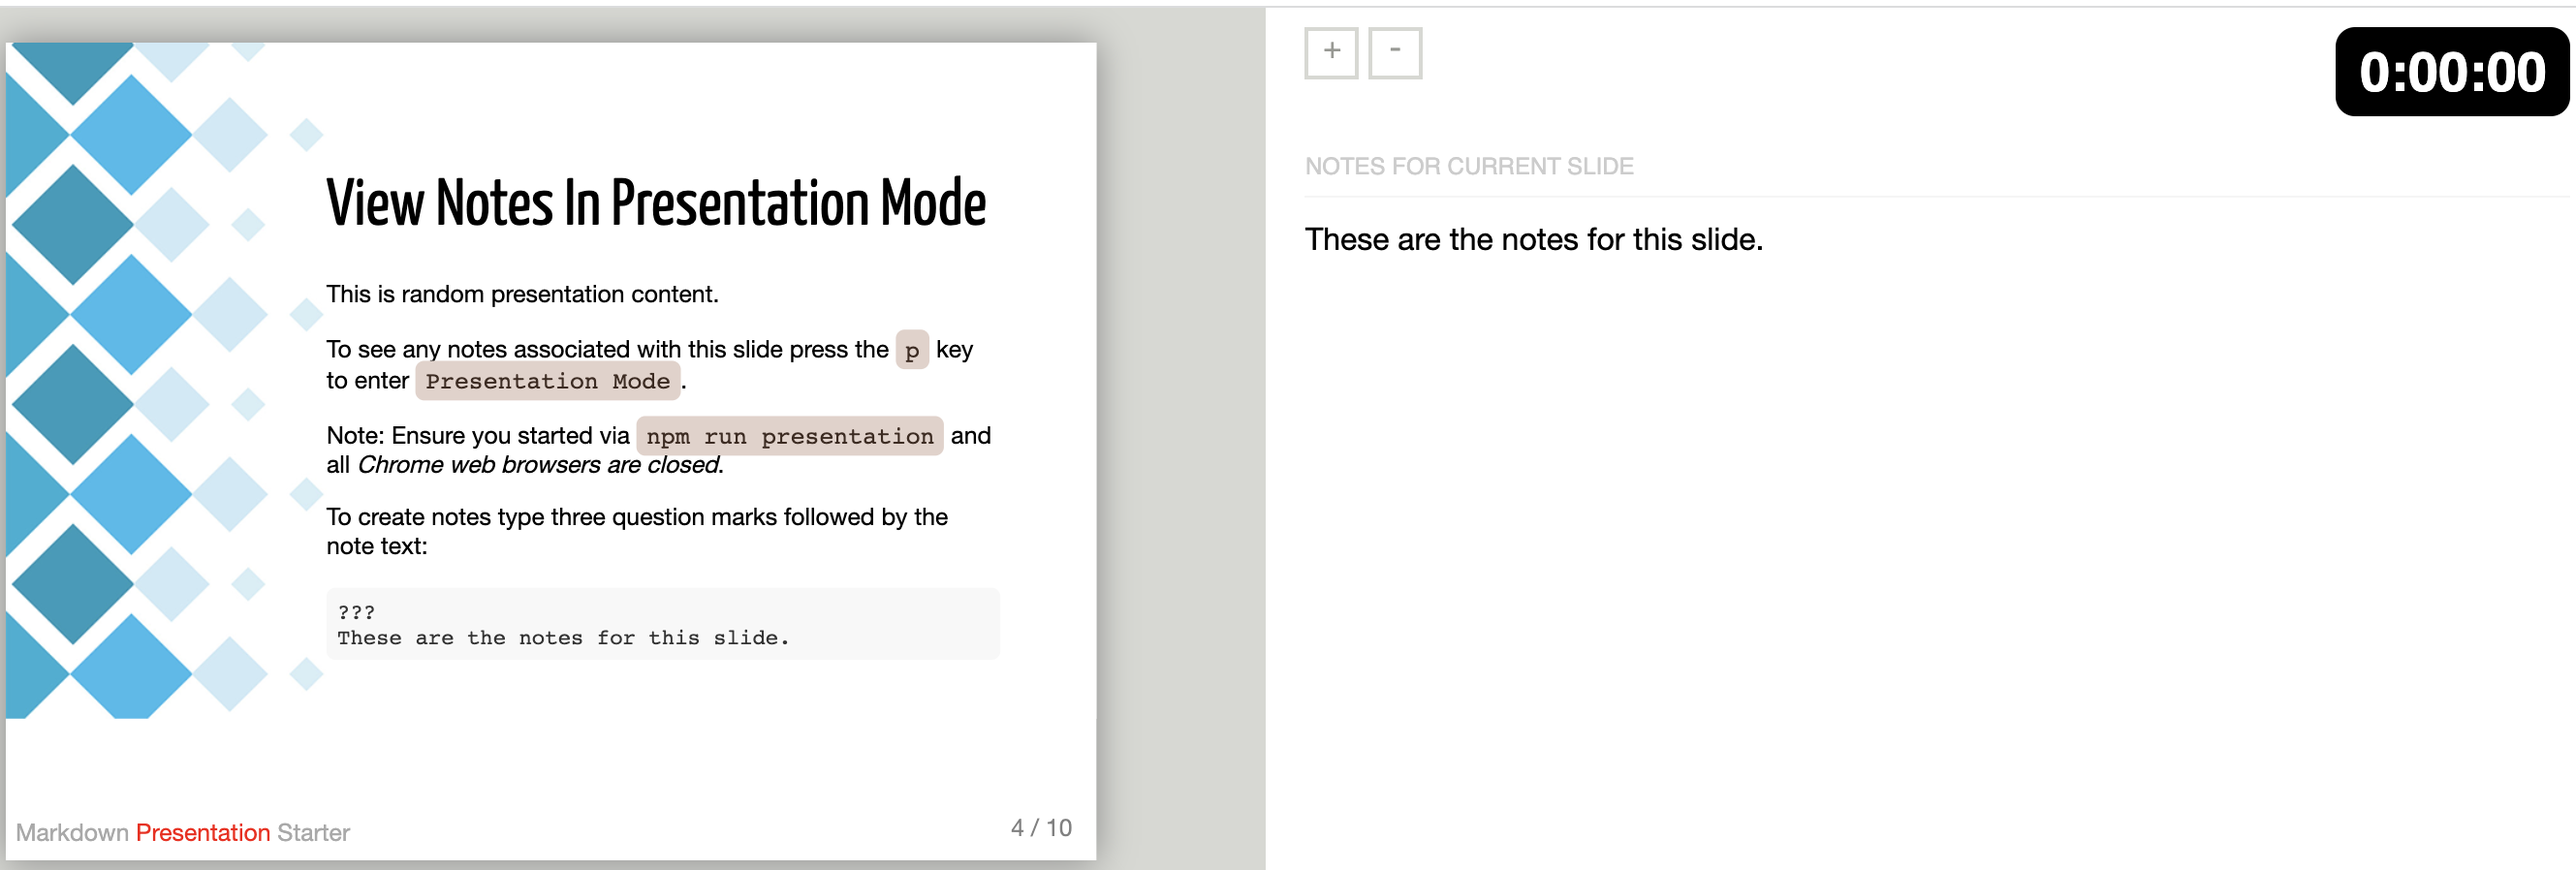
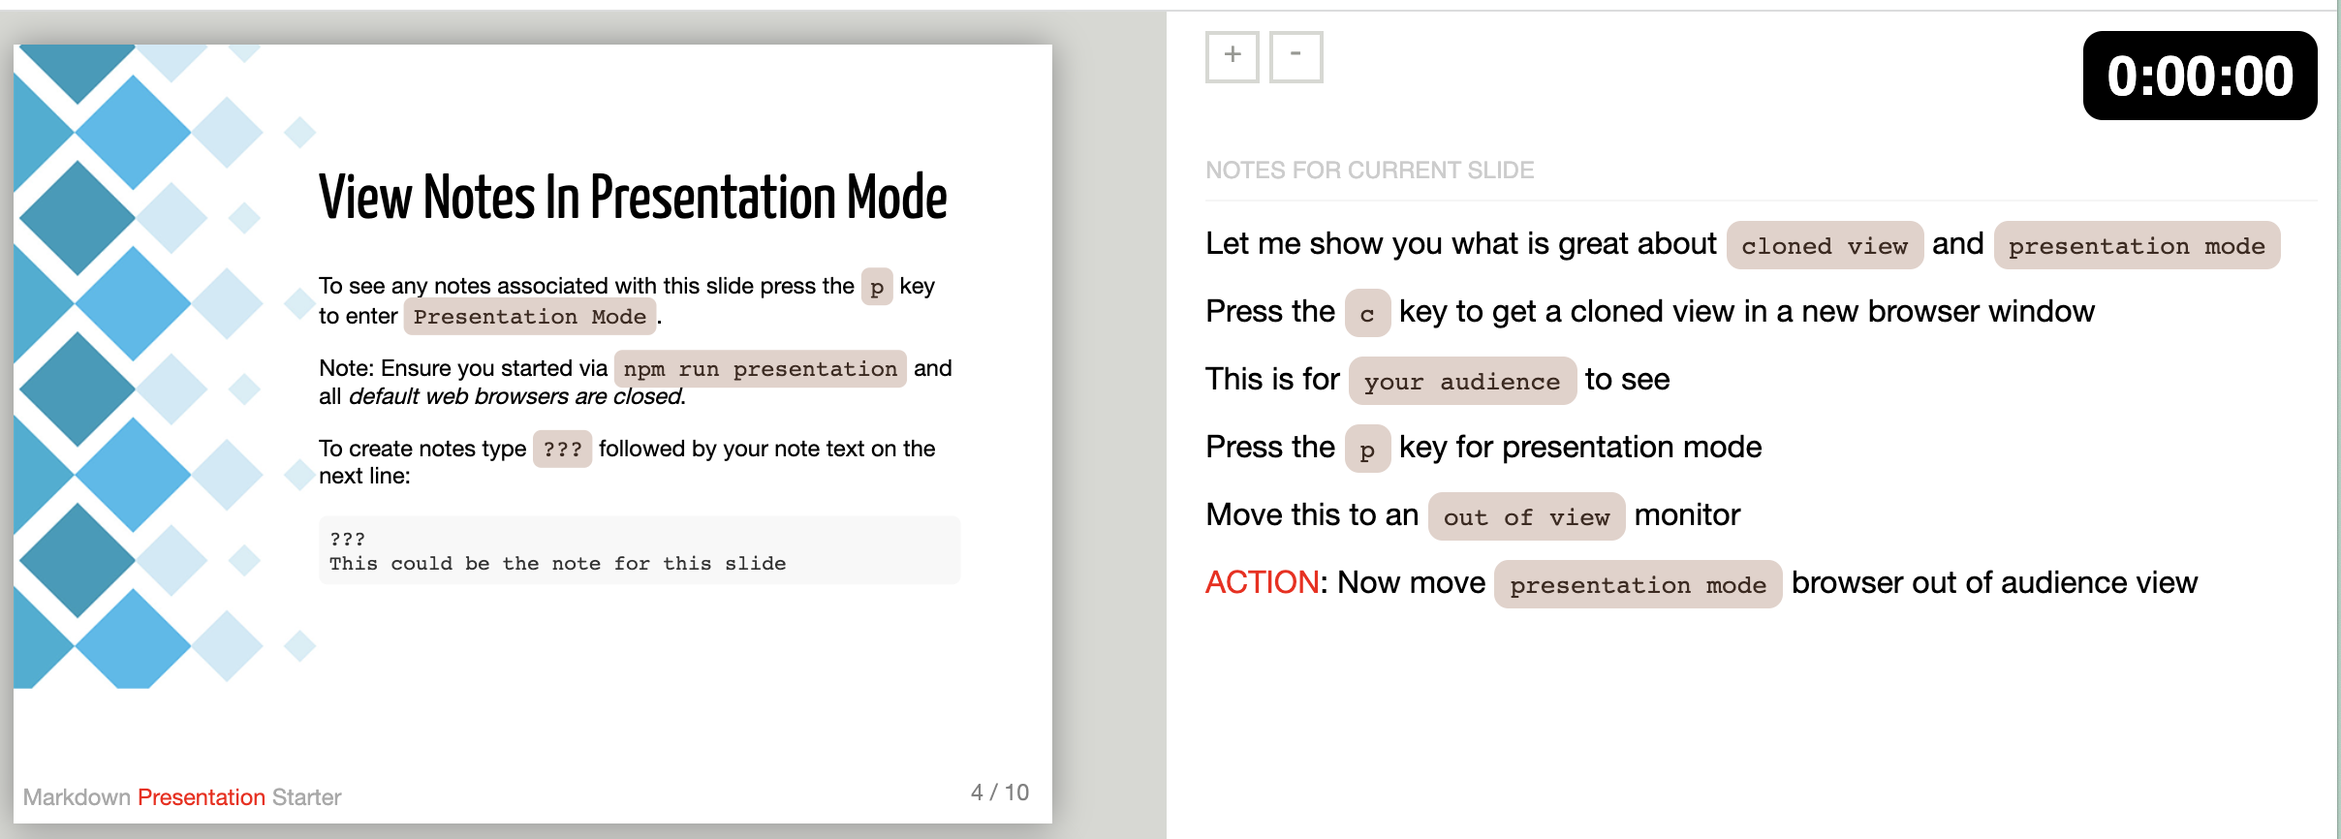
Added notest to presentatin.md, changed counter, updated images

Changed region(s): [[0.0, 0.0, 1.0, 1.0]]

diff --git a/public/index.html b/public/index.html
@@ -16,7 +16,7 @@
       sourceUrl: 'presentation.md',
       "highlightStyle": "github",
       "highlightLines": true,
-      "countIncrementalSlides": false
+      "countIncrementalSlides": true
     });
 
     if (window.HTMLWidgets) slideshow.on('afterShowSlide', function (slide) { window.dispatchEvent(new Event('resize')); });

diff --git a/public/presentation.md b/public/presentation.md
@@ -3,6 +3,25 @@ class: center, middle, inverse, title-slide
 # Markdown Presentation Starter
 ### Dan Tullis
 
+**[https://github.com/dantullis/markdown-presentation-starter](https://github.com/dantullis/markdown-presentation-starter)**
+
+???
+Welcome
+
+This is a quick walkthrough of the `Markdown Presentation Starter`
+
+You won't need much Node, NPM, HTML, or CSS experience to run this
+
+Let's dive right into it
+
+.red[ACTION]: SWITCH to smaller VIDEO scene
+
+.red[ACTION]: SWITCH to README.md on GitHub
+
+.red[ACTION]: SWITCH to terminal in a temp directory
+
+Let's follow the directions listed here
+
 ---
 layout: true
 background-image: url(./assets/images/bg.png)
@@ -13,20 +32,24 @@ background-position: 0% 0%
 .left-column[]
 .right-column[
 ## Layout With Background Image
-A simple, _in-browser_, Markdown-driven slideshow tool  
-targeted at people who know their way around HTML  
-and CSS, featuring:
+A simple, _in-browser_, `Markdown driven` slideshow tool.  
+Targeted for people with little to a wide range of HTML  
+and CSS skills, featuring:
+- Run without internet connection
 
-- Markdown .red[formatting], with smart extensions
+- Markdown .red[formatting]
 
 - `Presenter mode`, with cloned slideshow view
 
 - Syntax .yellow-bgc[highlighting], supporting a range of languages
 
-- Slide scaling, thus similar appearance on all devices / resolutions
-
-- Touch support for smart phones and pads, i.e. swipe to navigate slides
+- Slide scaling, thus similar appearance on _most_ devices / resolutions
 ]
+
+???
+.red[ACTION]: SWITCH to VS Code to show markdown
+
+Here is a simple slide with a background image with a little bit of CSS to create a second column for the slide content
 
 ---
 layout: false
@@ -52,6 +75,9 @@ class: inverse
 ]
 .footer[Markdown .red[Presentation] Starter]
 
+???
+You can access `help` or any of the keyboard `shortcuts` by pressing the `h` key 
+
 ---
 layout: true
 background-image: url(./assets/images/bg.png)
@@ -62,21 +88,31 @@ background-position: 0% 0%
 .left-column[]
 .right-column[
 # View Notes In Presentation Mode
-This is random presentation content.  
+I'm actually using the notes for this presentation `right now`
 
 To see any notes associated with this slide press the `p` key to enter `Presentation Mode`.  
 
 Note: Ensure you started via `npm run presentation` and all _default web browsers are closed_.  
 
-To create notes type three question marks followed by the note text:
+To create notes type `???` followed by your note text on the next line:
 ```markdown
 ???
-These are the notes for this slide.
+This could be the note for this slide
 ```
 ]
 
 ???
-These are the notes for this slide.
+Let me show you what is great about `cloned view` and `presentation mode`
+
+Press the `c` key to get a cloned view in a new browser window
+
+This is for `your audience` to see
+
+Press the `p` key for presentation mode
+
+Move this to an `out of view` monitor
+
+.red[ACTION]: Now move `presentation mode` browser out of audience view
 
 ---
 layout: false
@@ -84,10 +120,10 @@ layout: false
 # Two dashes
 
 The easiest way to build incremental slides is...  
---
-   
 
- to use two dashes `--` to separate content on a slide.
+--
+
+to use two dashes `--` to separate content on a slide.
 
 --
 
@@ -106,6 +142,11 @@ You can divide a slide in _any way you want_.
 - And one more
 .footer[Markdown .red[Presentation] Starter]
 
+???
+.yellow-bgc[Incremental slides can be a litle confusing and maybe should be called something else.]
+
+You still need to put your note at the end of the slide, not at the end of each increment
+
 ---
 layout: true
 background-image: url(./assets/images/bg.png)
@@ -113,6 +154,7 @@ background-position: 0% 0%
 .footer[Markdown .red[Presentation] Starter]
 
 ---
+
 .left-column[]
 .right-column[
 # Code Blocks
@@ -131,6 +173,11 @@ function add(a, b)
 end
 ```
 ]
+
+???
+Here are two examples of using a code block
+
+.red[ACTION]: Switch to VS Code to show the code blocks
 
 ---
 .left-column[]
@@ -157,6 +204,11 @@ if (a == b) {
 ```
 ]
 
+???
+Here is an examples of hightlights in a code block
+
+.red[ACTION]: Switch to VS Code to show the code blocks
+
 ---
 .left-column[]
 .right-column[
@@ -168,6 +220,11 @@ To create a hidden comment:
 [//]: # ( the comment )
 ```
 ]
+
+???
+Here is an example of a hidden comment
+
+.red[ACTION]: Also, notice how you can increase or decrease the size of the note by pressing the plus or minus keys
 
 ---
 .left-column[]
@@ -182,6 +239,13 @@ Enter the following:
 ```
 ]
 
+???
+You can `right-click` on the `MathJax` object for further functionality
+
+.red[ACTION]:
+- Right-click
+- Show Math As
+- Tex Commands
 ---
 layout: false
 class: center, middle, inverse
@@ -196,3 +260,6 @@ Created with:
 --
 ##### Any Suggestions / Issues?
 https://github.com/dantullis/markdown-presentation-starter/issues
+
+???
+Hope this walkthrough was helpful. If you have any questions or issues vist the GitHub URL listed above and let me know.
